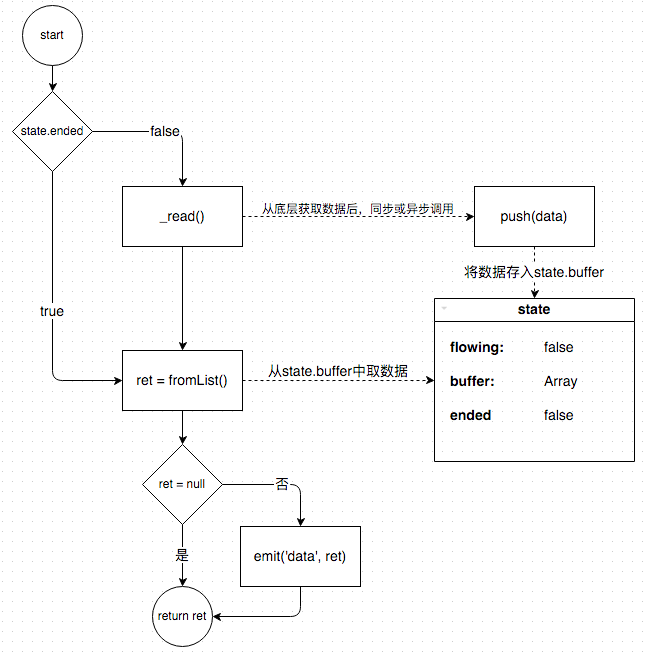
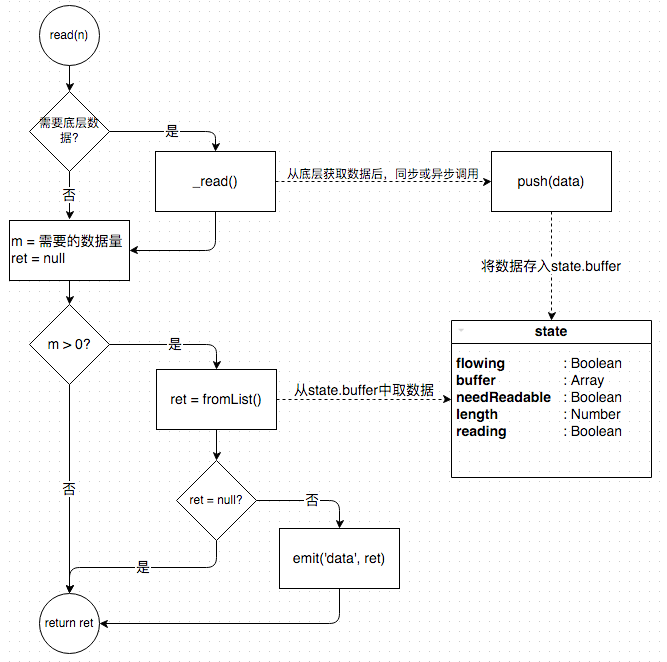
readable

diff --git a/docs/node-stream/principles.md b/docs/node-stream/principles.md
@@ -134,7 +134,7 @@ readable.on('data', data => process.stdout.write(data))
 
 暂停模式下，需要显示地调用`data = readable.read(n)`从流中获取数据。
 
-不难想像，流动模式下，流中会自动地调用`read(n)`并将数据输出。
+不难想像，流动模式下，流会自动地调用`read(n)`并将数据输出。
 所以，这里先介绍暂停模式下流是如何工作的。
 
 ##### 模式转换
@@ -224,8 +224,19 @@ read: c
 可以看出，每次`read()`取出数据时，也是触发了`data`事件的。
 因此，虽然在暂停模式下监听`data`事件不会引起状态的变化，但只要有数据被取出，都会触发它。
 
+下图是`read()`执行时的简化逻辑。
+
+![read]
+
+从中可以看出，`read()`实际是从`state.buffer`中取数据，而`push()`实际上是将数据存入`state.buffer`。
+
+`state.length`即缓存的数据量。
+
+`state.reading`表示是否正在从底层取数据。
+调用`_read()`时被设为`true`，接下来的`push()`调用均会重设为`false`。
+
 ##### readable事件
-如果将前面的例子异步地`push(data)`，结果如何？
+如果将前面的例子修改为异步地调用`push(data)`，结果如何？
 ```js
 const Readable = require('stream').Readable
 
@@ -250,16 +261,9 @@ while (readable.read()) ;;
 
 ```
 执行上述脚本，可以发现没有任何数据输出。
+这是因为当`_read()`异步调用`push()`时，会出现`read()`在`state.buffer`为空时拿数据的现象，自然就取不到。
 
-为了分析原因，下面简化一下`read()`执行时的逻辑：
-
-![read]
-
-可以看出，`read()`实际是从`state.buffer`中取数据。
-`push()`实际上是将数据存入`state.buffer`。
-当`_read()`异步调用`push()`时，会出现`read()`在`state.buffer`为空时拿数据的现象，自然就取不到。
-
-在上面的程序中可用如下代码将`state.buffer`打印出来:
+可以试着将`state.buffer`打印出来:
 ```js
 process.nextTick(function () {
   process.stdout.write('buffer: ' + readable._readableState.buffer)
@@ -273,7 +277,7 @@ buffer: a
 
 ```
 
-可见第一次调用`readable.read()`时，并未拿到数据，但触发了一次`push`调用，所以有数据存入了`state.buffer`中。
+可见第一次调用`readable.read()`时，并未拿到数据，但触发了（下一个tick中）一次`push`调用，所以有数据存入了`state.buffer`中。
 
 为了处理这种异步的情况，需要使用`readable`事件：
 ```js
@@ -311,9 +315,39 @@ data: c
 
 ```
 
-一旦`read()`没有拿到数据，在`push()`结束时就会触发`readable`事件。
+对于暂停流来说，`push(data)`时如果`state.needReadable`为`true`，则会触发`readable`事件。
+这个事件会在下一个tick中触发，并且做了去重处理。
+所以如果之前多次`push(data)`时要求`readable`事件，这里也只会触发一次。
 
+`state.needReadable`初始值为`false`，在执行`read()`时遇到下面几种情况则会修改为`true`：
+* 调用`_read()`前缓存为空。
+* 未能从缓存中取到数据。
+* 从缓存中取出数据后导致缓存为空，且还可以从底层获取数据（没有调用过`push(null)`）。
 
+上面的逻辑就保证了，一旦`read()`没拿到数据，`push(data)`时就会触发`readable`事件。
+所以能够持续不断地将数据读完。
+
+可见，上面的`while`循环其实就是试图将缓存清空，一旦清空就会导致`push(data)`添加数据时引起另一轮的清理。
+
+上面的例子中`read()`的调用引发了`readable`事件的触发（如果`read()`引起`push(data)`的调用而不是`push(null)`），
+`readable`事件的触发进而引起`read()`的调用。
+究竟最开始是调用了`read()`还是触发了`readable`事件？
+
+首次监听`readable`事件时，会将`state.needReadable`设为`true`。
+如果没有正在从底层读数据（`state.reading`为`false`）的话，会在下一个tick中调用`read(0)`。
+
+虽然`read(0)`并不会从`state.buffer`中取数据（因为需要的数据量为0），
+但是如果数据量足够（不需要调用`_read()`从底层取），则会触发`readable`事件。
+如果数据量不够，则会调用`_read()`，进而导致`push(data)`的调用，从而触发`readable`事件。
+
+所以，上面问题的答案就是，最初是从`read(0)`开始的，进而到`readable`事件，再到`read()`，然后再`readable`事件，如此循环。
+
+**注意**：这里关于`readable`事件的触发时机分析是针对暂停流的。
+在流动模式下，如果异步地执行`push(data)`，可能就不会将数据放入缓存，而是直接触发`data`事件输出了。
+
+概括起来说，在暂停模式下，读取数据时如果出现了缓存数据不足的情况，
+则在新进数据时就会通过`readable`事件通知消耗方再次尝试`read()`。
+还可以调用`read(0)`来诱发`readable`事件。
 
 #### 可读流的流动模式
 
